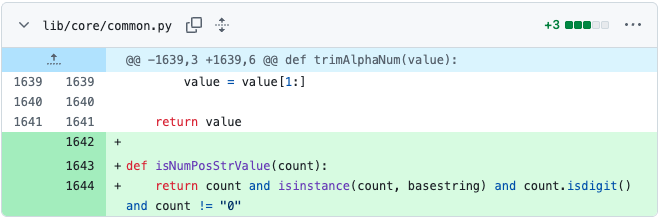
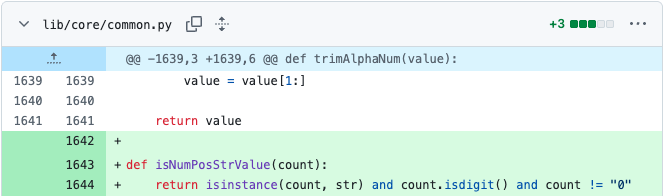
fix:minor error in userstudyreadme

diff --git a/UserStudyREADME.md b/UserStudyREADME.md
@@ -24,7 +24,7 @@ Sqlmap 在 `plugins/generic/enumeration.py` 中多次使用 `if not count.isdigi
 ```python
 
 def isNumPosStrValue(count):
-    return count and isinstance(count, basestring) and count.isdigit() and count != "0"
+    return isinstance(count, str) and count.isdigit() and count != "0"
 ```
 
 请你在完成该初始修改后，完成该重构任务。请根据[验证修改](#验证修改)内的测试代码，验证任务是否完成。
